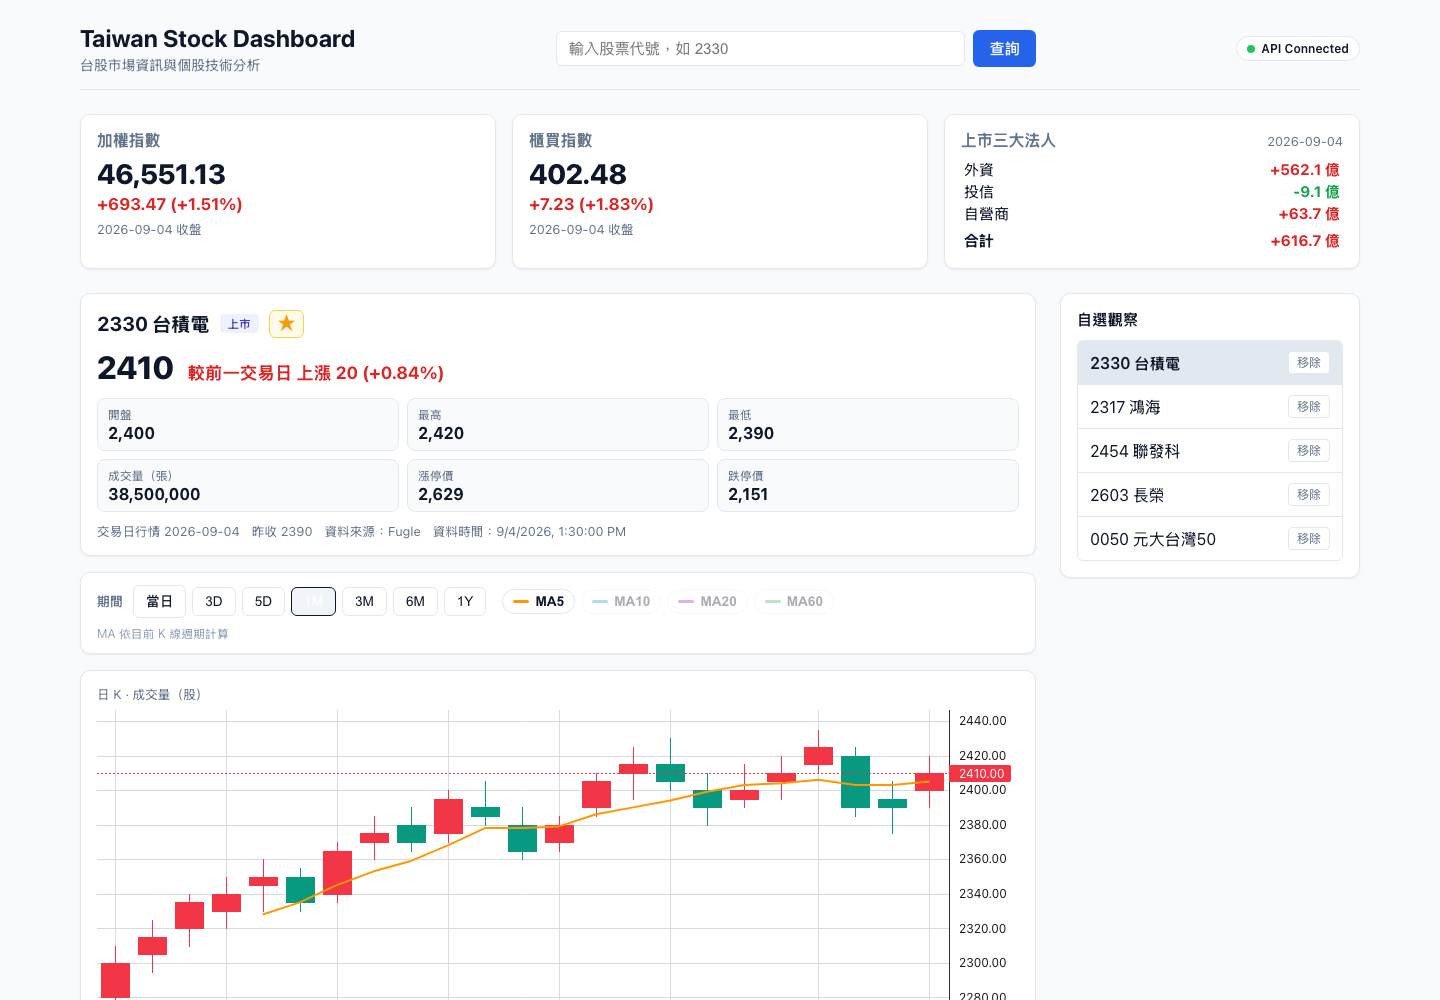
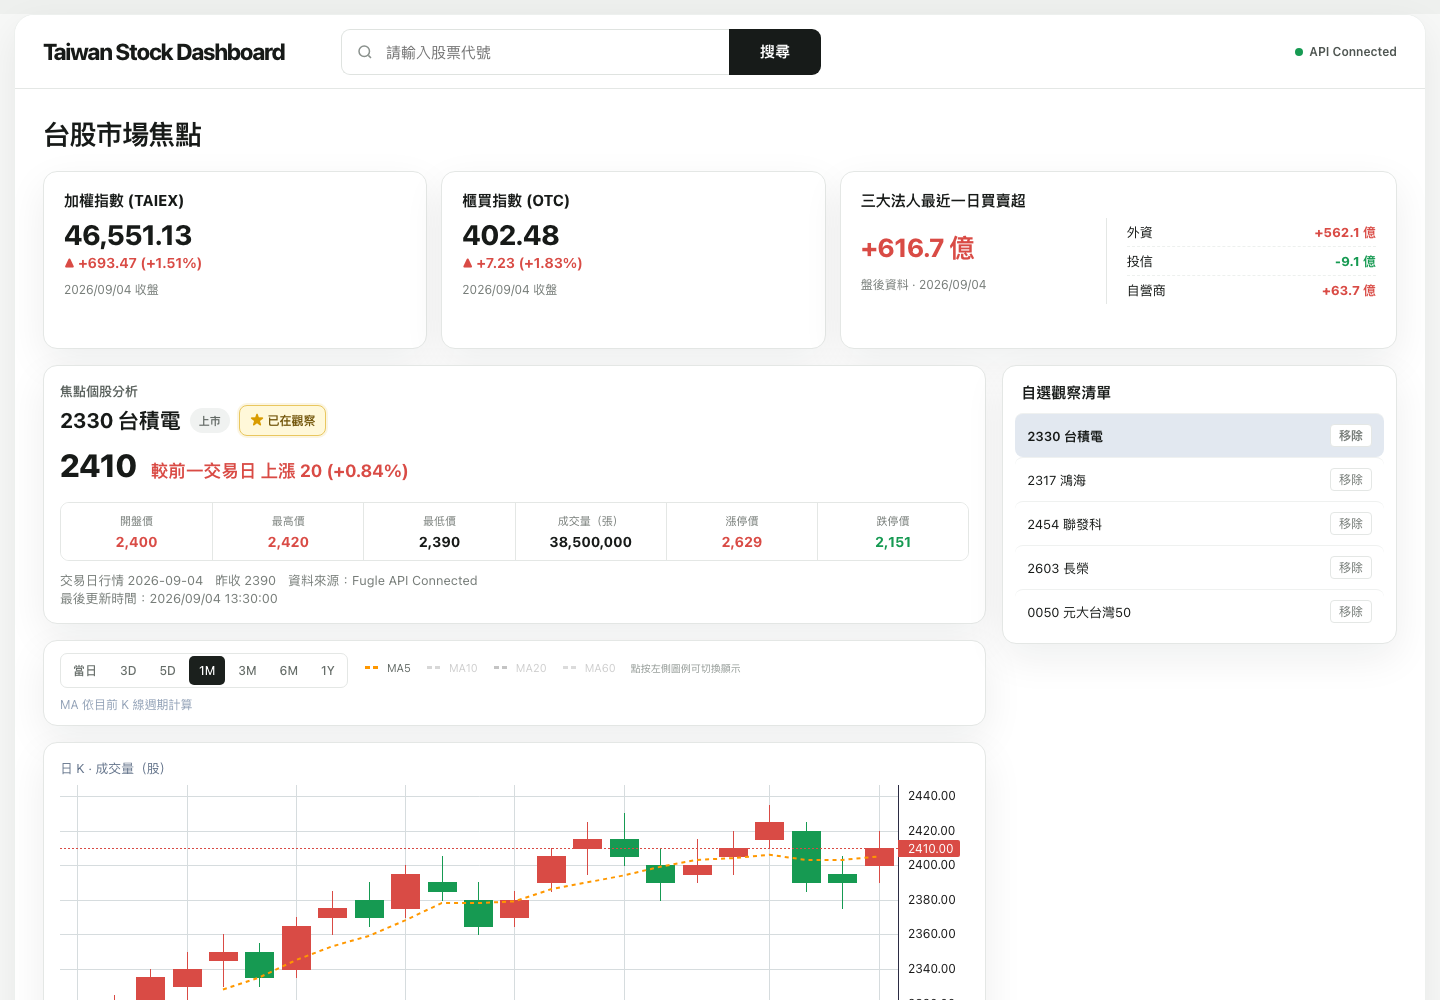
test(e2e): Align selectors and fixtures with prototype wording

diff --git a/e2e/stock-quote.spec.ts b/e2e/stock-quote.spec.ts
@@ -61,17 +61,18 @@ test('stock quote happy path', async ({ page }) => {
   });
 
   await page.goto('/');
-  await page.getByPlaceholder('輸入股票代號，如 2330').fill('2330');
-  await page.getByRole('button', { name: '查詢' }).click();
+  await page.getByPlaceholder('請輸入股票代號').fill('2330');
+  await page.getByRole('button', { name: '搜尋' }).click();
 
   await expect(page.getByText('2330 台積電')).toBeVisible();
   await expect(page.getByTestId('stock-quote-market')).toHaveText('上市');
   await expect(page.getByTestId('stock-quote-price')).toHaveText('568');
   await expect(page.getByTestId('stock-quote-change')).toHaveText('較前一交易日 上漲 2 (+0.35%)');
   await expect(page.getByText('昨收 566')).toBeVisible();
-  await expect(page.getByText('資料來源：Fugle')).toBeVisible();
+  await expect(page.getByText('資料來源：Fugle API Connected')).toBeVisible();
+  await expect(page.getByText('最後更新時間：2026/09/04 13:30:00')).toBeVisible();
   // Enriched session grid
-  await expect(page.getByTestId('focus-quote-grid')).toContainText('開盤');
+  await expect(page.getByTestId('focus-quote-grid')).toContainText('開盤價');
   await expect(page.getByTestId('focus-quote-grid')).toContainText('漲停價');
   await expect(page.getByText(FALLBACK_TOAST)).toHaveCount(0);
 });
@@ -87,8 +88,8 @@ test('falling quote states explicit previous-day wording in green', async ({ pag
   });
 
   await page.goto('/');
-  await page.getByPlaceholder('輸入股票代號，如 2330').fill('2330');
-  await page.getByRole('button', { name: '查詢' }).click();
+  await page.getByPlaceholder('請輸入股票代號').fill('2330');
+  await page.getByRole('button', { name: '搜尋' }).click();
 
   await expect(page.getByTestId('stock-quote-change')).toHaveText('較前一交易日 下跌 6 (-1.06%)');
 });
@@ -104,8 +105,8 @@ test('flat quote states 持平 wording', async ({ page }) => {
   });
 
   await page.goto('/');
-  await page.getByPlaceholder('輸入股票代號，如 2330').fill('2330');
-  await page.getByRole('button', { name: '查詢' }).click();
+  await page.getByPlaceholder('請輸入股票代號').fill('2330');
+  await page.getByRole('button', { name: '搜尋' }).click();
 
   await expect(page.getByTestId('stock-quote-change')).toHaveText('較前一交易日持平 (昨收 566)');
 });
@@ -125,12 +126,12 @@ test('source fallback and recovery toasts', async ({ page }) => {
   });
 
   await page.goto('/');
-  await page.getByPlaceholder('輸入股票代號，如 2330').fill('2330');
-  const search = page.getByRole('button', { name: '查詢' });
+  await page.getByPlaceholder('請輸入股票代號').fill('2330');
+  const search = page.getByRole('button', { name: '搜尋' });
 
   // Response 1: live Fugle — badge, no toast.
   await search.click();
-  await expect(page.getByText('資料來源：Fugle')).toBeVisible();
+  await expect(page.getByText('資料來源：Fugle API Connected')).toBeVisible();
   await expect(page.getByText(FALLBACK_TOAST)).toHaveCount(0);
 
   // Response 2: live MIS fallback — badge switches, one fallback toast.
@@ -147,5 +148,5 @@ test('source fallback and recovery toasts', async ({ page }) => {
   // Response 4: live Fugle again — recovery toast, badge back.
   await search.click();
   await expect(page.getByText(RECOVERY_TOAST)).toHaveCount(1);
-  await expect(page.getByText('資料來源：Fugle')).toBeVisible();
+  await expect(page.getByText('資料來源：Fugle API Connected')).toBeVisible();
 });

diff --git a/e2e/market-overview.spec.ts b/e2e/market-overview.spec.ts
@@ -62,30 +62,29 @@ test('homepage loads TAIEX, OTC, and 上市三大法人 with positive/negative f
 
   await page.goto('/');
 
+  await expect(page.getByRole('heading', { name: '台股市場焦點' })).toBeVisible();
+
   // TAIEX
-  const taiexCard = page.getByTestId('market-index-加權指數');
+  const taiexCard = page.getByTestId('market-index-加權指數 (TAIEX)');
   await expect(taiexCard).toBeVisible();
-  await expect(taiexCard).toContainText('加權指數');
+  await expect(taiexCard).toContainText('加權指數 (TAIEX)');
   await expect(taiexCard).toContainText('46,551.13');
-  await expect(taiexCard).toContainText('+693.47 (+1.51%)');
-  await expect(taiexCard).toContainText('2026-09-04 收盤');
+  await expect(taiexCard).toContainText('▲ +693.47 (+1.51%)');
+  await expect(taiexCard).toContainText('2026/09/04 收盤');
 
   // OTC
-  const otcCard = page.getByTestId('market-index-櫃買指數');
+  const otcCard = page.getByTestId('market-index-櫃買指數 (OTC)');
   await expect(otcCard).toBeVisible();
-  await expect(otcCard).toContainText('櫃買指數');
+  await expect(otcCard).toContainText('櫃買指數 (OTC)');
   await expect(otcCard).toContainText('402.48');
-  await expect(otcCard).toContainText('+7.23 (+1.83%)');
-  await expect(otcCard).toContainText('2026-09-04 收盤');
+  await expect(otcCard).toContainText('▲ +7.23 (+1.83%)');
+  await expect(otcCard).toContainText('2026/09/04 收盤');
 
-  // 上市三大法人
+  // 三大法人最近一日買賣超
   const instCard = page.getByTestId('market-institutional');
   await expect(instCard).toBeVisible();
-  await expect(instCard).toContainText('上市三大法人');
+  await expect(instCard).toContainText('三大法人最近一日買賣超');
   await expect(instCard).toContainText('+562.1 億');
-  await expect(instCard).toContainText('-9.1 億');
-  await expect(instCard).toContainText('+63.7 億');
-  await expect(instCard).toContainText('+616.7 億');
 });
 
 test('market overview 500 error does NOT break stock search', async ({ page }) => {
@@ -113,8 +112,8 @@ test('market overview 500 error does NOT break stock search', async ({ page }) =
   await expect(page.getByText('市場概況載入失敗')).toBeVisible();
 
   // 搜尋功能正常工作
-  await page.getByPlaceholder('輸入股票代號，如 2330').fill('2330');
-  await page.getByRole('button', { name: '查詢' }).click();
+  await page.getByPlaceholder('請輸入股票代號').fill('2330');
+  await page.getByRole('button', { name: '搜尋' }).click();
 
   await expect(page.getByText('2330 台積電')).toBeVisible();
   await expect(page.getByText('568')).toBeVisible();

diff --git a/e2e/stock-analysis.spec.ts b/e2e/stock-analysis.spec.ts
@@ -53,8 +53,8 @@ function historyBody(range: string, price: number) {
 }
 
 async function search(page: Page, symbol: string) {
-  await page.getByPlaceholder('輸入股票代號，如 2330').fill(symbol);
-  await page.getByRole('button', { name: '查詢' }).click();
+  await page.getByPlaceholder('請輸入股票代號').fill(symbol);
+  await page.getByRole('button', { name: '搜尋' }).click();
 }
 
 async function setupAnalysis(page: Page) {
@@ -88,10 +88,11 @@ test('search loads focus quote, intraday chart, MA legend defaults, and daily ta
   await search(page, '2330');
 
   await expect(page.getByText('2330 台積電')).toBeVisible();
+  await expect(page.getByText('焦點個股分析')).toBeVisible();
   // Interview requirement, explicit wording — never a bare signed number.
   await expect(page.getByTestId('stock-quote-change')).toHaveText('較前一交易日 上漲 2 (+0.35%)');
   await expect(page.getByTestId('stock-quote-market')).toHaveText('上市');
-  await expect(page.getByTestId('focus-quote-grid')).toContainText('開盤');
+  await expect(page.getByTestId('focus-quote-grid')).toContainText('開盤價');
   await expect(page.getByTestId('focus-quote-grid')).toContainText('漲停價');
   await expect(page.getByTestId('stock-history-chart')).toBeVisible();
   await expect(page.getByText('TradingView Lightweight Charts™')).toBeVisible();
@@ -106,6 +107,8 @@ test('search loads focus quote, intraday chart, MA legend defaults, and daily ta
   await expect(page.getByText('MA 依目前 K 線週期計算')).toBeVisible();
   // Recent daily table still shows daily OHLCV on an intraday chart range.
   await expect(page.getByTestId('recent-trading-table')).toBeVisible();
+  await expect(page.getByText('近期交易資料')).toBeVisible();
+  await expect(page.getByText('最近 5 個交易日')).toBeVisible();
   await expect(page.getByText('2026-08-06')).toBeVisible();
   expect(historyRanges).toContain('1d');
   expect(historyRanges).toContain('1m');

diff --git a/e2e/stock-watchlist.spec.ts b/e2e/stock-watchlist.spec.ts
@@ -85,13 +85,14 @@ test('A & B: Add to watchlist and duplicate protection', async ({ page }) => {
   await page.goto('/');
 
   // Search 2330
-  await page.getByPlaceholder('輸入股票代號，如 2330').fill('2330');
-  await page.getByRole('button', { name: '查詢' }).click();
+  await page.getByPlaceholder('請輸入股票代號').fill('2330');
+  await page.getByRole('button', { name: '搜尋' }).click();
 
   // Star action beside the title adds to the watchlist
   const starBtn = page.getByRole('button', { name: '加入自選' });
   await expect(starBtn).toBeVisible();
   await expect(starBtn).toHaveAttribute('aria-pressed', 'false');
+  await expect(starBtn).toContainText('加入觀察');
   await starBtn.click();
 
   // Item appears in watchlist
@@ -102,6 +103,7 @@ test('A & B: Add to watchlist and duplicate protection', async ({ page }) => {
   // Star turns into remove action and is pressed
   const pressed = page.getByRole('button', { name: '從自選移除' });
   await expect(pressed).toHaveAttribute('aria-pressed', 'true');
+  await expect(pressed).toContainText('已在觀察');
 
   // LocalStorage check
   const storageContent = await page.evaluate(() =>
@@ -262,8 +264,8 @@ test('G: Invalid symbol cannot be added to watchlist', async ({ page }) => {
 
   await page.goto('/');
 
-  await page.getByPlaceholder('輸入股票代號，如 2330').fill('999999');
-  await page.getByRole('button', { name: '查詢' }).click();
+  await page.getByPlaceholder('請輸入股票代號').fill('999999');
+  await page.getByRole('button', { name: '搜尋' }).click();
 
   await expect(page.getByText('查無此股票代號')).toBeVisible();
   await expect(page.getByRole('button', { name: '加入自選' })).toHaveCount(0);

diff --git a/e2e/mobile-smoke.spec.ts b/e2e/mobile-smoke.spec.ts
@@ -78,11 +78,13 @@ test('mobile viewport smoke: usable search, market overview, watchlist, and char
   // Header and status badge
   await expect(page.getByRole('heading', { name: 'Taiwan Stock Dashboard' })).toBeVisible();
   await expect(page.getByLabel('API 連線狀態')).toBeVisible();
+  await expect(page.getByRole('heading', { name: '台股市場焦點' })).toBeVisible();
 
   // Market overview cards readable
-  await expect(page.getByTestId('market-index-加權指數')).toBeVisible();
-  await expect(page.getByTestId('market-index-櫃買指數')).toBeVisible();
+  await expect(page.getByTestId('market-index-加權指數 (TAIEX)')).toBeVisible();
+  await expect(page.getByTestId('market-index-櫃買指數 (OTC)')).toBeVisible();
   await expect(page.getByTestId('market-institutional')).toBeVisible();
+  await expect(page.getByText('自選觀察清單')).toBeVisible();
 
   // Watchlist reachable and usable
   const watchItem = page.getByTestId('watchlist-item-2330');
